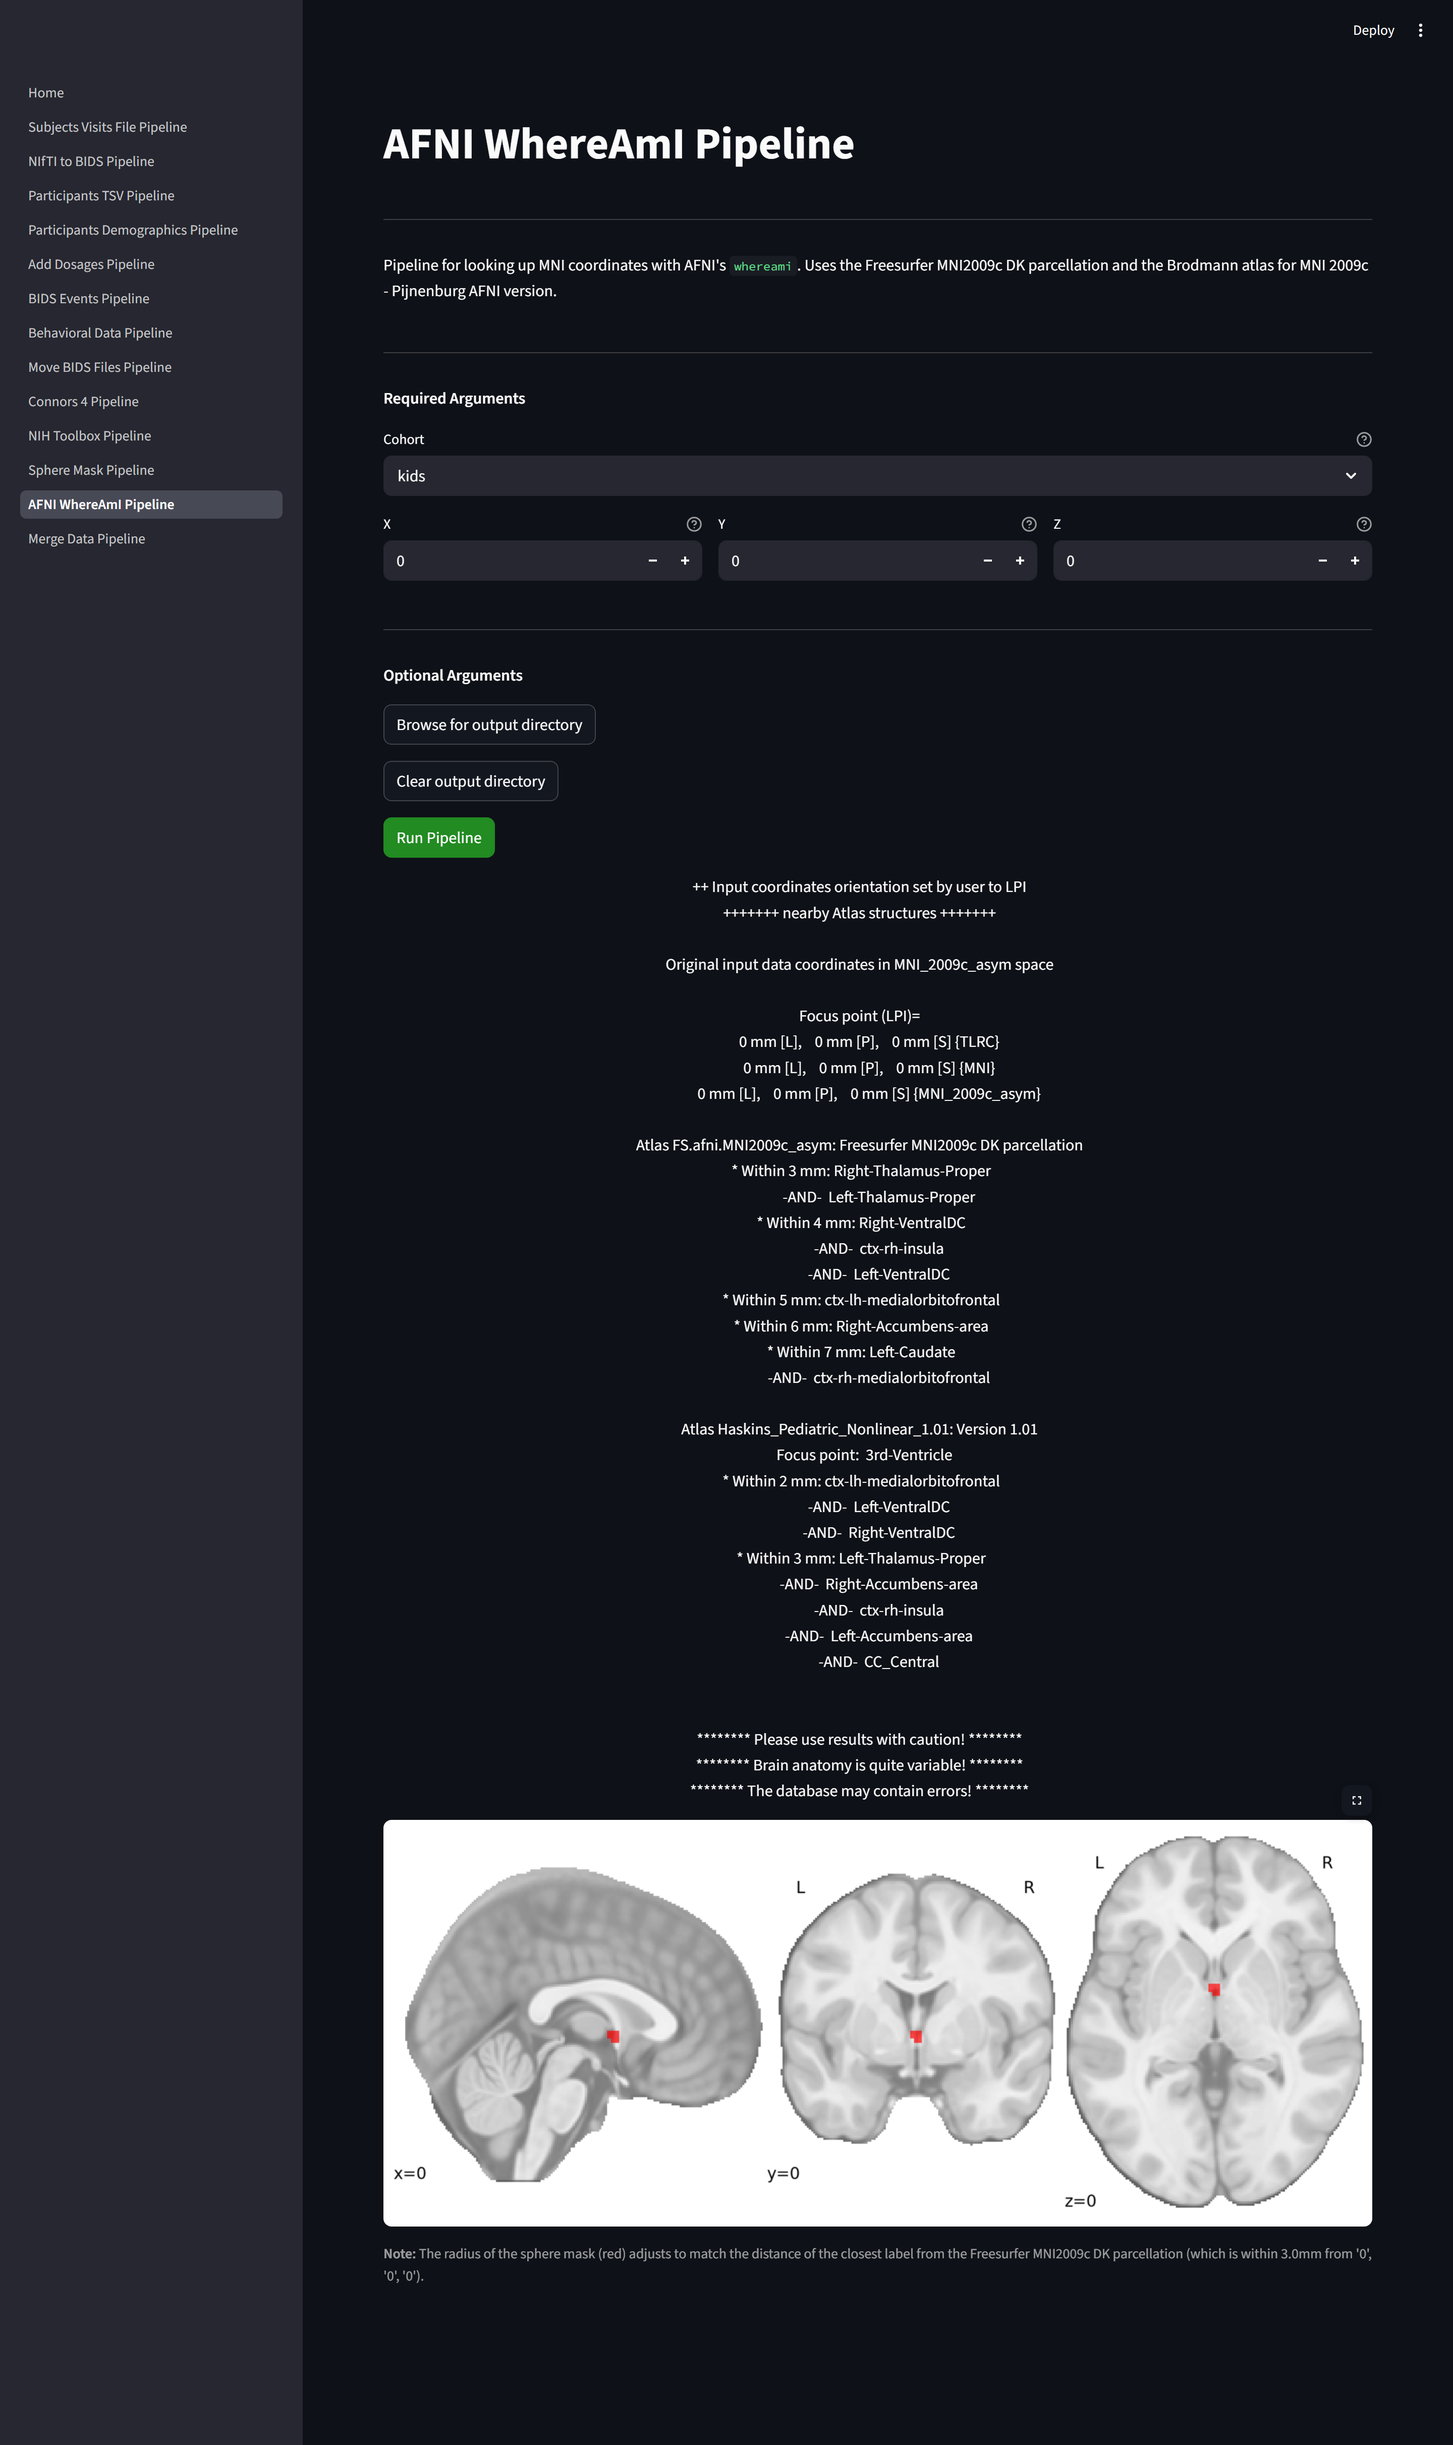
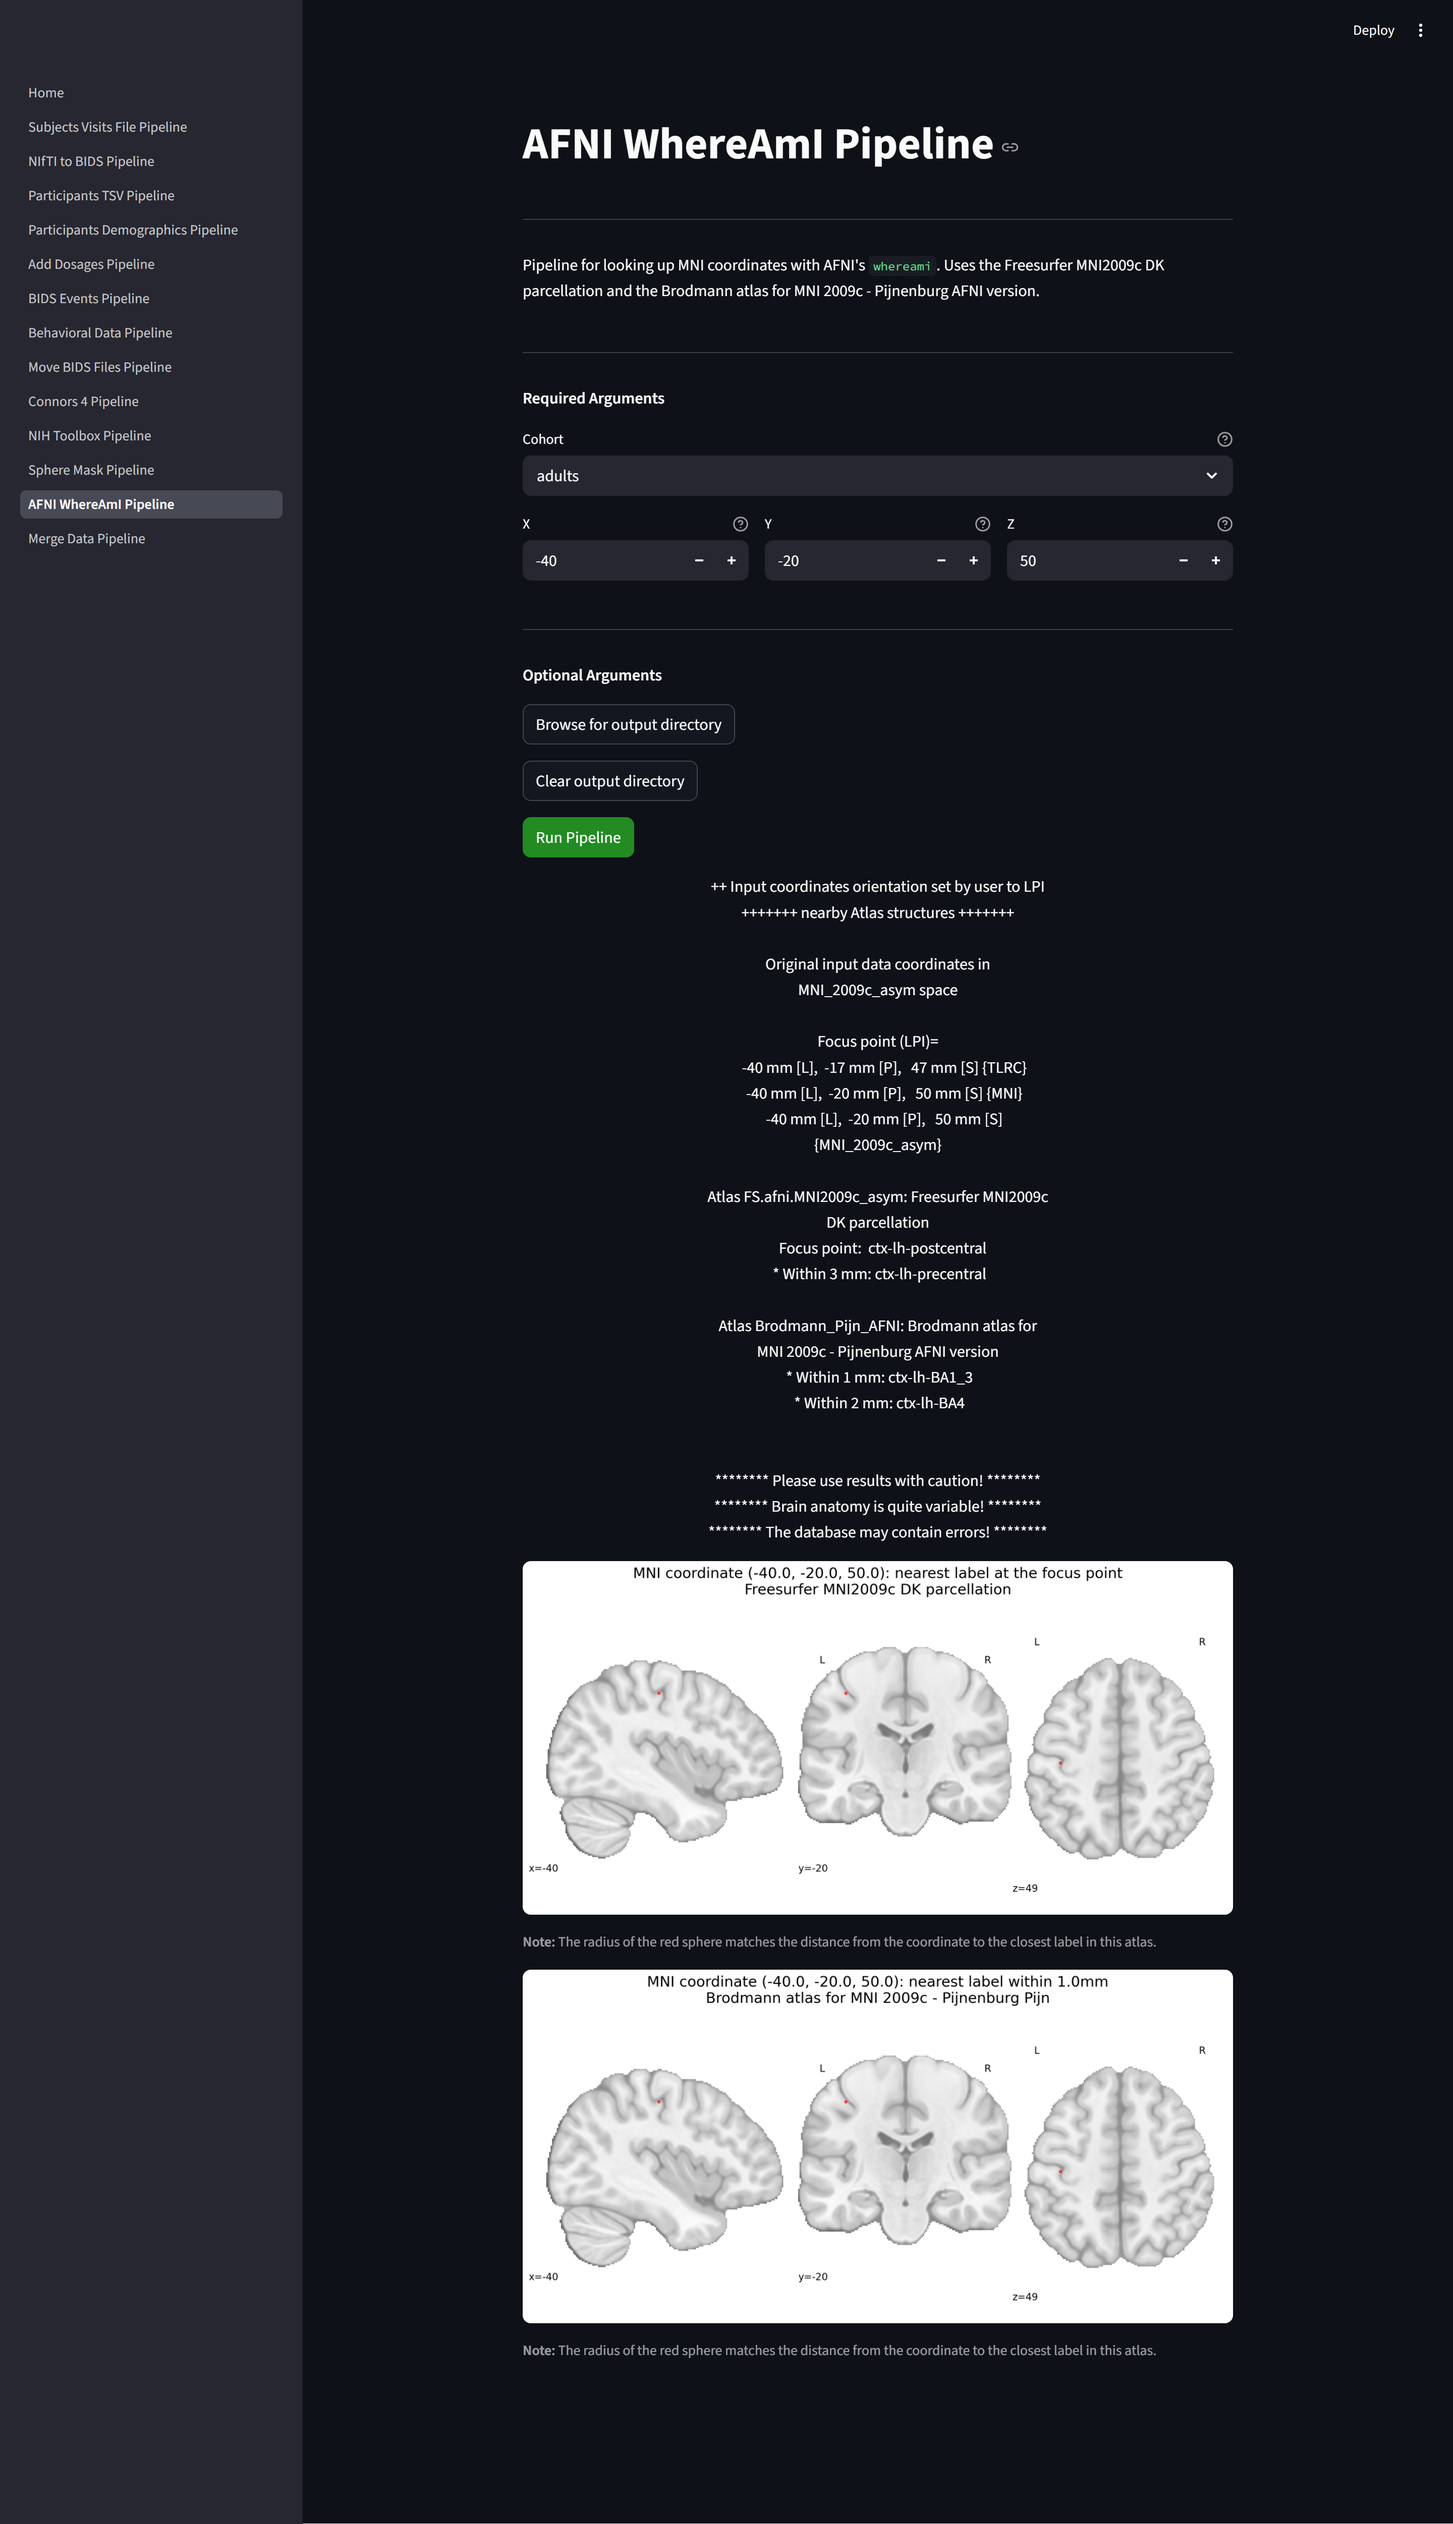
show all atlases

diff --git a/afni_whereami/whereami.py b/afni_whereami/whereami.py
@@ -4,6 +4,16 @@ from pathlib import Path
 
 from _general_utils import _check_coordinate, get_template_imgs
 
+TARGETS_DICT = {
+    "FS.afni.MNI2009c_asym": {
+        "name": "Freesurfer MNI2009c DK parcellation",
+        "target": "Atlas FS.afni.MNI2009c_asym: Freesurfer MNI2009c DK parcellation",
+    },
+    "Brodmann_Pijn_AFNI": {
+        "name": "Brodmann atlas for MNI 2009c - Pijnenburg Pijn",
+        "target": "Atlas Brodmann_Pijn_AFNI: Brodmann atlas for MNI 2009c - Pijnenburg AFNI version",
+    },
+}
 SERVER_URL_PATH = Path(__file__).parent / "client" / "server_url.txt"
 CERT_PATH = Path(__file__).parent / "client" / "cert.pem"
 
@@ -18,13 +28,40 @@ def get_server():
 # CLI path will still repeatedly send requests to server but Streamlit path
 # is most likely to be used
 @lru_cache(maxsize=1024)
-def query_afni(x, y, z, cohort):
-    request_data = {"x": x, "y": y, "z": z, "cohort": cohort}
+def query_afni(x, y, z):
+    request_data = {"x": x, "y": y, "z": z}
 
     # Verification is overkill but good practice
     response = requests.post(f"{get_server()}/", json=request_data, verify=CERT_PATH)
 
     return response.json()["output"]
+
+
+def identify_target(output_text):
+    new_dict = {}
+    for atlas, content in TARGETS_DICT.items():
+        sphere_radius = None
+        is_focus_point = False
+        target_str = content["target"]
+
+        if target_str in output_text:
+            distance_info_index = output_text.index(target_str) + 1
+            distance_info = output_text[distance_info_index]
+
+            if "Focus point" not in distance_info:
+                sphere_radius = float(
+                    re.search(r"\d+(\.\d+)?", distance_info.split(":")[0]).group()
+                )
+            else:
+                sphere_radius = 1.0
+                is_focus_point = True
+
+        new_dict[atlas] = dict(content)
+        new_dict[atlas].update(
+            {"sphere_radius": sphere_radius, "is_focus_point": is_focus_point}
+        )
+
+    return new_dict
 
 
 def run_pipeline(cohort, mni_coordinate, plot_dst_dir):
@@ -38,30 +75,9 @@ def run_pipeline(cohort, mni_coordinate, plot_dst_dir):
     _check_coordinate(mni_coordinate)
 
     # public ip is reserved but just in case it changes, add in signature
-    response = query_afni(
-        mni_coordinate[0], mni_coordinate[1], mni_coordinate[2], cohort
-    )
-    output_text = [x.strip() for x in response.split("\n")]
-    target_str = "Atlas FS.afni.MNI2009c_asym: Freesurfer MNI2009c DK parcellation"
-
-    is_focus_point = False
-    if target_str in output_text:
-        distance_info_index = (
-            output_text.index(
-                "Atlas FS.afni.MNI2009c_asym: Freesurfer MNI2009c DK parcellation"
-            )
-            + 1
-        )
-        distance_info = output_text[distance_info_index]
-        if "Focus point" not in distance_info:
-            sphere_radius = float(
-                re.search(r"\d+(\.\d+)?", distance_info.split(":")[0]).group()
-            )
-        else:
-            sphere_radius = 1.0
-            is_focus_point = True
-    else:
-        sphere_radius = None
+    response = query_afni(mni_coordinate[0], mni_coordinate[1], mni_coordinate[2])
+    output_text = [x.strip() for x in response.split("\n") if len(x) > 0]
+    target_dict = identify_target(output_text)
 
     template_mask_path, template_img_path = get_template_imgs(cohort)
     tpl = get_entity_value(template_mask_path, "tpl", return_entity_prefix=True)
@@ -69,37 +85,60 @@ def run_pipeline(cohort, mni_coordinate, plot_dst_dir):
 
     mni_coordinate = list(map(float, mni_coordinate))
 
-    sphere_filename = None
-    figure = None
-    if sphere_radius:
-        sphere_mask = create_sphere_mask(
-            mni_coordinate, sphere_radius, nib.load(template_mask_path)
-        )
+    output = {}
+    for atlas, content in target_dict.items():
+        sphere_radius = content["sphere_radius"]
+        output.update({atlas: content})
+        sphere_filename = None
+        figure = None
+        is_focus_point = content["is_focus_point"]
 
-        figure, ax = plt.subplots(figsize=(10, 4))
-        ax.remove()
+        if sphere_radius:
+            if is_focus_point:
+                sphere_radius_text = "at the focus point"
+            else:
+                sphere_radius_text = (
+                    f"within {sphere_radius}mm" if sphere_radius else None
+                )
 
-        display = plot_roi(
-            sphere_mask,
-            figure=figure,
-            bg_img=template_img_path,
-            draw_cross=False,
-            cmap=ListedColormap(["red"]),
-            colorbar=False,
-            black_bg=False,
-        )
+            sphere_mask = create_sphere_mask(
+                mni_coordinate, sphere_radius, nib.load(template_mask_path)
+            )
 
-        if plot_dst_dir:
-            sphere_name = f"{tpl}_{res}_radius-{sphere_radius}mm_desc-sphere_plot_{mni_coordinate[0]}_{mni_coordinate[1]}_{mni_coordinate[2]}.png"
+            figure, ax = plt.subplots(figsize=(12, 6))
+            ax.remove()
 
-            sphere_filename = Path(plot_dst_dir) / sphere_name
-            sphere_filename.parent.mkdir(parents=True, exist_ok=True)
+            display = plot_roi(
+                sphere_mask,
+                figure=figure,
+                axes=(0, 0, 1, 0.86),
+                bg_img=template_img_path,
+                draw_cross=False,
+                cmap=ListedColormap(["red"]),
+                colorbar=False,
+                black_bg=False,
+            )
 
-            display.savefig(sphere_filename, dpi=720)
+            figure.suptitle(
+                f"MNI coordinate ({mni_coordinate[0]}, {mni_coordinate[1]}, {mni_coordinate[2]}): "
+                f"nearest label {sphere_radius_text}\n{content['name']}",
+                fontsize=18,
+            )
 
-    if is_focus_point:
-        sphere_radius_text = "at the focus point"
-    else:
-        sphere_radius_text = f"within {sphere_radius}mm" if sphere_radius else None
+            if plot_dst_dir:
+                sphere_name = f"{tpl}_{res}_radius-{sphere_radius}mm_atlas-{atlas}_desc-sphere_plot_{mni_coordinate[0]}_{mni_coordinate[1]}_{mni_coordinate[2]}.png"
 
-    return response, figure, sphere_filename, sphere_radius_text
+                sphere_filename = Path(plot_dst_dir) / sphere_name
+                sphere_filename.parent.mkdir(parents=True, exist_ok=True)
+
+                display.savefig(sphere_filename, dpi=720)
+
+            output[atlas].update(
+                {
+                    "afni_sphere_filename": sphere_filename,
+                    "afni_sphere_figure": figure,
+                    "sphere_radius_text": sphere_radius_text,
+                }
+            )
+
+    return response, output

diff --git a/afni_whereami/api/whereami_api.py b/afni_whereami/api/whereami_api.py
@@ -16,7 +16,6 @@ https://github.com/fastapi/fastapi/discussions/14783
 import subprocess, threading, time
 from collections import defaultdict, deque
 from functools import lru_cache
-from typing import Literal
 
 from fastapi import FastAPI, HTTPException, Request
 from pydantic import BaseModel, Field
@@ -35,35 +34,10 @@ class Coordinate(BaseModel):
     x: int = Field(ge=-96, le=96)
     y: int = Field(ge=-132, le=96)
     z: int = Field(ge=-78, le=114)
-    cohort: Literal["adults", "kids"] = "adults"
 
 
 @lru_cache(maxsize=1024)
-def run_afni(x: int, y: int, z: int, cohort: str) -> str:
-
-    command = [
-        "podman",
-        "run",
-        "--rm",
-        "--timeout",
-        "30",
-        "localhost/afni",
-        "whereami",
-        str(x),
-        str(y),
-        str(z),
-        "-lpi",
-        "-space",
-        "MNI_2009c_asym",
-        "-atlas",
-        "FS.afni.MNI2009c_asym",
-    ]
-
-    if cohort == "kids":
-        command += ["-atlas", "Haskins_Pediatric_Nonlinear_1.01"]
-
-    command += ["-atlas", "Brodmann_Pijn_AFNI"]
-
+def run_afni(x: int, y: int, z: int) -> str:
     if not PROGRESS.acquire(blocking=False):
         raise HTTPException(503, "Server is busy, try again soon.")
 
@@ -72,7 +46,25 @@ def run_afni(x: int, y: int, z: int, cohort: str) -> str:
             RUNNING
         ):  # one thread can call afni at a time and the lock must first be released
             output = subprocess.run(
-                command,
+                [
+                    "podman",
+                    "run",
+                    "--rm",
+                    "--timeout",
+                    "30",
+                    "localhost/afni",
+                    "whereami",
+                    str(x),
+                    str(y),
+                    str(z),
+                    "-lpi",
+                    "-space",
+                    "MNI_2009c_asym",
+                    "-atlas",
+                    "FS.afni.MNI2009c_asym",
+                    "-atlas",
+                    "Brodmann_Pijn_AFNI",
+                ],
                 capture_output=True,
                 text=True,
                 timeout=40,
@@ -107,6 +99,4 @@ def check_rate_limit(address: str) -> None:
 def whereami(coordinate: Coordinate, request: Request) -> dict[str, str]:
     check_rate_limit(request.client.host)
 
-    return {
-        "output": run_afni(coordinate.x, coordinate.y, coordinate.z, coordinate.cohort)
-    }
+    return {"output": run_afni(coordinate.x, coordinate.y, coordinate.z)}

diff --git a/afni_whereami/whereami_app.py b/afni_whereami/whereami_app.py
@@ -5,7 +5,6 @@ sys.path.insert(0, str(Path(__file__).parent.parent))
 sys.path.insert(0, str(Path(__file__).parent.parent / "afni_whereami"))
 
 import streamlit as st
-from bidsaid._helpers import iterable_to_str
 from _streamlit_utils import _select_content
 from whereami import run_pipeline
 
@@ -71,9 +70,7 @@ if st.button("Run Pipeline", type="primary"):
     with st.spinner("Processing..."):
         (
             st.session_state.afni_output_text,
-            st.session_state.afni_sphere_figure,
-            st.session_state.afni_sphere_filename,
-            st.session_state.sphere_radius_text,
+            st.session_state.sphere_output,
         ) = run_pipeline(**kwargs)
 
 if st.session_state.get("afni_output_text"):
@@ -81,18 +78,16 @@ if st.session_state.get("afni_output_text"):
     with col2:
         st.text(st.session_state.get("afni_output_text"), text_alignment="center")
 
-    if st.session_state.get("afni_sphere_filename"):
-        st.success(f"Plot saved to: {st.session_state.get('afni_sphere_filename')}")
+    if output := st.session_state.get("sphere_output"):
 
-    if st.session_state.get("afni_sphere_figure"):
-        st.pyplot(st.session_state.get("afni_sphere_figure"))
-        additional_text = (
-            f"[{iterable_to_str([X, Y, Z])}]"
-            if st.session_state.get("sphere_radius_text")
-            and "focus point" in st.session_state.get("sphere_radius_text").lower()
-            else f"from {iterable_to_str([X, Y, Z])}"
-        )
-        st.caption(
-            "**Note:** The radius of the sphere mask (red) adjusts to match the distance of the closest "
-            f"label from the Freesurfer MNI2009c DK parcellation (which is {st.session_state.get('sphere_radius_text')} {additional_text})."
-        )
+        for atlas, content in output.items():
+            if sphere_filename := content.get("afni_sphere_filename"):
+                st.success(f"Plot saved to: {sphere_filename}")
+
+            if sphere_figure := content.get("afni_sphere_figure"):
+                st.pyplot(sphere_figure)
+
+                st.caption(
+                    "**Note:** The radius of the red sphere matches the distance from the "
+                    "coordinate to the closest label in this atlas."
+                )

diff --git a/afni_whereami/whereami_cli.py b/afni_whereami/whereami_cli.py
@@ -38,9 +38,10 @@ def _get_cmd_args():
 if __name__ == "__main__":
     _get_cmd_args = _get_cmd_args()
     args = _get_cmd_args.parse_args()
-    output_text, _, sphere_filename, _ = run_pipeline(**vars(args))
+    output_text, output = run_pipeline(**vars(args))
 
-    if sphere_filename:
-        print(f"File save to {sphere_filename}")
+    if output:
+        for _, content in output.items():
+            print(f"File save to {content.get('afni_sphere_filename')}")
 
     print(output_text)
